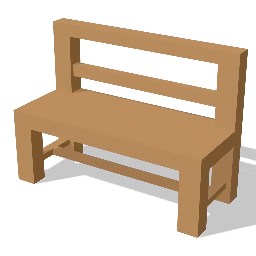
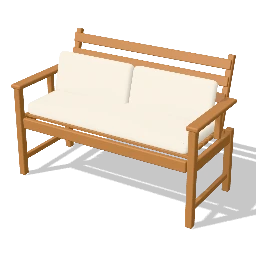
Convert the outdoor family to premium models: teak lounger and bench, slatted tables, planter, airer

diff --git a/packages/catalog/src/premium/outdoor.ts b/packages/catalog/src/premium/outdoor.ts
@@ -1,10 +1,355 @@
 /**
- * Premium generators: outdoor. Add one builder per kind of piece and list it in
- * `OUTDOOR_GENERATORS`; see `beds.ts` for the conventions.
+ * Premium generators: outdoor. Slatted teak lounge chair and garden bench with
+ * cushions, slatted round and square tables, a planter with foliage and a
+ * clothes airer. See `beds.ts` for the conventions; shared parts live in
+ * `seating.parts.ts`.
  */
-import type { CatalogEntry } from '@interio/core';
-import type * as THREE from 'three';
-import type { BuildContext } from './kit';
+import type { CatalogEntry, FinishSlot } from '@interio/core';
+import * as THREE from 'three';
+import { mergeVertices } from 'three/examples/jsm/utils/BufferGeometryUtils.js';
+import { Model, cyl, lathe, param, rbox, type BuildContext } from './kit';
+import { Parts, beam, clamp, placeBox, ring, rod, softBox, taperRod } from './seating.parts';
+
+/* -------------------------------------------------------------------- slots */
+
+export const LOUNGER_SLOTS: FinishSlot[] = [
+  { id: 'frame', label: 'Frame', kind: 'wood', default: 'wood.teak' },
+  { id: 'cushions', label: 'Cushions', kind: 'fabric', default: 'fabric.linen.ivory' },
+];
+export const SLAT_TABLE_SLOTS: FinishSlot[] = [
+  { id: 'top', label: 'Top', kind: 'wood', default: 'wood.teak' },
+  { id: 'base', label: 'Base', kind: 'metal', default: 'metal.black' },
+];
+export const SLAT_TABLE_WOOD_SLOTS: FinishSlot[] = [
+  { id: 'top', label: 'Top', kind: 'wood', default: 'wood.teak' },
+  { id: 'base', label: 'Legs', kind: 'wood', default: 'wood.teak' },
+];
+export const PLANTER_SLOTS: FinishSlot[] = [
+  { id: 'box', label: 'Planter', kind: 'wood', default: 'wood.teak' },
+  { id: 'frame', label: 'Frame', kind: 'metal', default: 'metal.black' },
+];
+export const AIRER_SLOTS: FinishSlot[] = [
+  { id: 'frame', label: 'Frame', kind: 'metal', default: 'metal.white' },
+  { id: 'rails', label: 'Rails', kind: 'metal', default: 'metal.steel' },
+];
+
+/** Deterministic pseudo-random numbers in [0, 1), so a model never changes between builds. */
+function rng(seed: number): () => number {
+  let s = seed >>> 0 || 1;
+  return () => {
+    s = (s * 1664525 + 1013904223) >>> 0;
+    return s / 4294967296;
+  };
+}
+
+/* ---------------------------------------------------------- lounge chair */
+
+/**
+ * A slatted lounge seat facing +Z: teak side frames with broad flat arms,
+ * a slatted seat and reclined slatted back, a seat cushion and a back cushion
+ * with piping. `arms: false` drops the arms; `seats` > 1 makes a garden bench
+ * (one long seat cushion, a back cushion per seat).
+ */
+export function buildLounger(entry: CatalogEntry, ctx?: BuildContext): THREE.Object3D {
+  const m = new Model(entry, ctx);
+  const { W, D, H } = m;
+  const p = new Parts(m);
+  const F = 'frame';
+  const seats = param<number>(entry, 'seats', 1);
+  const arms = param<boolean>(entry, 'arms', true);
+  const seatY = clamp(H * (seats > 1 ? 0.5 : 0.46), 0.34, 0.45); // top of the slats
+  const armY = seatY + 0.2;
+  const post = 0.045;
+  const armW = arms ? 0.075 : 0;
+  const fx = W / 2 - armW / 2; // centre line of the side frames
+  const front = D / 2 - post / 2 - 0.005;
+  const rear = -D / 2 + 0.11;
+  const lean = 0.28;
+
+  for (const s of [-1, 1]) {
+    const x = s * (arms ? fx : W / 2 - post / 2);
+    // Front leg rises to the arm, rear leg to the back rail.
+    p.part(F, rbox(post, (arms ? armY : seatY) - 0.02, post, 0.008, x, 0, front, 2));
+    p.part(F, beam([x, 0, rear], [x, seatY, rear + 0.01], post, post, 0.008, 2));
+    // Side rail under the seat and a low stretcher.
+    p.part(F, rbox(post * 0.7, 0.07, front - rear, 0.008, x, seatY - 0.09, (front + rear) / 2, 2));
+    p.part(F, rbox(post * 0.6, 0.035, front - rear, 0.006, x, 0.1, (front + rear) / 2, 1));
+    if (arms) {
+      // Broad flat arm, rounded at the front.
+      p.part(F, rbox(armW, 0.028, D - 0.12, 0.01, s * fx, armY - 0.028, D / 2 - (D - 0.12) / 2, 2));
+      p.part(F, rbox(post * 0.8, armY - seatY - 0.028, post * 0.8, 0.006, x, seatY, rear + 0.18, 1));
+    }
+  }
+  const inner = 2 * (arms ? fx - armW / 2 : W / 2 - post);
+  // Front and back rails.
+  p.part(F, rbox(inner + 0.01, 0.07, post * 0.7, 0.008, 0, seatY - 0.09, front, 2));
+  p.part(F, rbox(inner + 0.01, 0.07, post * 0.7, 0.008, 0, seatY - 0.09, rear, 2));
+  // Seat slats.
+  const sd = front - rear - post;
+  const n = Math.max(4, Math.round(sd / 0.065));
+  const gap = 0.012;
+  const sw = (sd - (n - 1) * gap) / n;
+  for (let i = 0; i < n; i++) p.part(F, rbox(inner, 0.02, sw, 0.005, 0, seatY - 0.02, rear + post / 2 + sw / 2 + i * (sw + gap), 1));
+  // Reclined back: two stiles carrying horizontal slats.
+  const backTop = H;
+  const backLen = (backTop - seatY + 0.02) / Math.cos(lean);
+  const stileX = inner / 2 - 0.02;
+  const back: THREE.BufferGeometry[] = [];
+  for (const s of [-1, 1]) back.push(rbox(0.04, backLen, 0.035, 0.008, s * stileX, 0, 0, 2));
+  const bn = Math.max(3, Math.round((backLen - 0.12) / 0.09));
+  for (let i = 0; i < bn; i++) back.push(rbox(inner - 0.01, 0.06, 0.018, 0.005, 0, 0.1 + i * ((backLen - 0.16) / (bn - 1)) - 0.03, 0.026, 1));
+  const bbox = new THREE.Box3();
+  for (const g of back) {
+    g.rotateX(-lean);
+    g.computeBoundingBox();
+    bbox.union(g.boundingBox!);
+  }
+  for (const g of back) p.part(F, g.translate(0, backTop - bbox.max.y, -D / 2 - bbox.min.z));
+  // Cushions.
+  const cushT = 0.08;
+  const seatCush = softBox(inner - 0.012, cushT, sd + 0.01, 0, seatY, (front + rear) / 2 + 0.01, 0.18, 0.03, 2);
+  p.part('cushions', seatCush);
+  const py = seatY + cushT - 0.01;
+  p.part('cushions', rod([-(inner / 2 - 0.03), py, (front + rear) / 2 + 0.01 + (sd + 0.01) / 2 - 0.012], [inner / 2 - 0.03, py, (front + rear) / 2 + 0.01 + (sd + 0.01) / 2 - 0.012], 0.005, 6));
+  const bw = (inner - 0.012) / seats;
+  const bh = (backTop - seatY - cushT) * 0.78;
+  for (let i = 0; i < seats; i++) {
+    const g = softBox(bw - (seats > 1 ? 0.012 : 0), 0.07, bh, 0, 0, 0, 0.3, 0.03, 2).rotateX(Math.PI / 2).rotateX(-lean);
+    // Rests on the seat cushion, against the slats.
+    const zAt = -D / 2 - bbox.min.z + 0.045;
+    placeBox(g, { cx: -inner / 2 + 0.006 + bw * (i + 0.5), minY: seatY + cushT - 0.02, minZ: zAt + Math.tan(lean) * 0.02 });
+    p.part('cushions', g);
+  }
+  return p.build();
+}
+
+/* ------------------------------------------------------------- slat table */
+
+/**
+ * A slatted teak table. `shape: 'round'`: a round slatted top on a black steel
+ * tripod with a ring (bistro table). `shape: 'square'`: a square slatted top
+ * with a slatted lower shelf on square teak legs (outdoor coffee table).
+ */
+export function buildSlatTable(entry: CatalogEntry, ctx?: BuildContext): THREE.Object3D {
+  const m = new Model(entry, ctx);
+  const { W, D, H } = m;
+  const p = new Parts(m);
+  const shape = param<'round' | 'square'>(entry, 'shape', 'round');
+  const topT = 0.024;
+  const gap = 0.008;
+  if (shape === 'round') {
+    const R = W / 2;
+    const sz = D / W;
+    // A solid rim round slats cut to the circle.
+    const band = 0.035;
+    p.part(
+      'top',
+      lathe(
+        [
+          [R - band, 0],
+          [R - 0.004, 0],
+          [R, 0.004],
+          [R, topT - 0.004],
+          [R - 0.004, topT],
+          [R - band, topT],
+          [R - band, 0],
+        ],
+        0,
+        H - topT,
+        0,
+        48,
+      ).scale(1, 1, sz),
+    );
+    const Ri = R - band + 0.004;
+    const n = Math.max(5, Math.round((2 * Ri) / 0.07)) | 1;
+    const sw = (2 * Ri - (n - 1) * gap) / n;
+    for (let i = 0; i < n; i++) {
+      const z = -Ri + sw / 2 + i * (sw + gap);
+      const zEdge = Math.min(Ri, Math.abs(z) + sw / 2);
+      const len = Math.max(0.04, 2 * Math.sqrt(Math.max(0, Ri * Ri - zEdge * zEdge)) + 0.01);
+      p.part('top', rbox(len, topT - 0.004, sw, 0.004, 0, H - topT, z * sz, 1));
+    }
+    p.part('top', ring(R - band - 0.02, 0.012, 0, H - topT - 0.012, 0, 40, sz));
+    // Tripod with a foot ring.
+    const top = R * 0.32;
+    const foot = R * 0.92;
+    for (let i = 0; i < 3; i++) {
+      const a = (i / 3) * Math.PI * 2 + Math.PI / 3;
+      p.part('base', taperRod([Math.sin(a) * foot, 0.006, Math.cos(a) * foot * sz], [Math.sin(a) * top, H - topT - 0.02, Math.cos(a) * top * sz], 0.012, 0.014, 12));
+      p.fixed('#1a1a1a', cyl(0.014, 0.014, 0.007, Math.sin(a) * foot, 0, Math.cos(a) * foot * sz, 'y', 10));
+    }
+    const ry = H * 0.3;
+    const rr = foot + (top - foot) * ((ry - 0.006) / (H - topT - 0.026));
+    p.part('base', ring(rr, 0.008, 0, ry, 0, 36, sz));
+    p.part('base', cyl(top + 0.03, top + 0.03, 0.012, 0, H - topT - 0.032, 0, 'y', 24).scale(1, 1, sz));
+    return p.build();
+  }
+  // Square: slatted top in a mitred frame, slatted shelf, square legs.
+  const leg = 0.05;
+  const rim = 0.05;
+  for (const s of [-1, 1]) {
+    p.part('top', rbox(W, topT, rim, 0.006, 0, H - topT, s * (D / 2 - rim / 2), 2));
+    p.part('top', rbox(rim, topT, D - 2 * rim, 0.006, s * (W / 2 - rim / 2), H - topT, 0, 2));
+  }
+  const n = Math.max(4, Math.round((D - 2 * rim) / 0.07));
+  const sw = (D - 2 * rim - (n + 1) * gap) / n;
+  for (let i = 0; i < n; i++) p.part('top', rbox(W - 2 * rim, topT - 0.004, sw, 0.004, 0, H - topT, -D / 2 + rim + gap + sw / 2 + i * (sw + gap), 1));
+  const lx = W / 2 - leg / 2 - 0.015;
+  const lz = D / 2 - leg / 2 - 0.015;
+  for (const sx of [-1, 1]) for (const sz of [-1, 1]) p.part('base', rbox(leg, H - topT, leg, 0.008, sx * lx, 0, sz * lz, 2));
+  for (const s of [-1, 1]) {
+    p.part('base', rbox(2 * lx, 0.06, 0.025, 0.006, 0, H - topT - 0.06, s * lz, 1));
+    p.part('base', rbox(0.025, 0.06, 2 * lz, 0.006, s * lx, H - topT - 0.06, 0, 1));
+  }
+  const shelfY = clamp(H * 0.2, 0.06, 0.12);
+  const sn = Math.max(3, Math.round((2 * lz - leg) / 0.08));
+  const ssw = (2 * lz - leg - (sn - 1) * gap * 1.5) / sn;
+  for (let i = 0; i < sn; i++) p.part('top', rbox(2 * lx + leg * 0.5, 0.018, ssw, 0.004, 0, shelfY, -lz + leg / 2 + ssw / 2 + i * (ssw + gap * 1.5), 1));
+  for (const s of [-1, 1]) p.part('base', rbox(0.025, 0.03, 2 * lz, 0.005, s * (lx - leg / 2 + 0.0125), shelfY - 0.03, 0, 1));
+  return p.build();
+}
+
+/* ------------------------------------------------------------------ planter */
+
+/**
+ * A long planter: a slatted teak box on a black steel frame, soil, and a row
+ * of shrubs of mixed heights and two greens, the tallest at the full height.
+ */
+export function buildPlanterBox(entry: CatalogEntry, ctx?: BuildContext): THREE.Object3D {
+  const m = new Model(entry, ctx);
+  const { W, D, H } = m;
+  const p = new Parts(m);
+  const legH = 0.06;
+  const boxH = clamp(H * 0.42, 0.2, 0.45);
+  const top = legH + boxH;
+  // Frame: corner posts and a base ring.
+  const post = 0.025;
+  for (const sx of [-1, 1]) for (const sz of [-1, 1]) p.part('frame', rbox(post, top, post, 0.003, sx * (W / 2 - post / 2), 0, sz * (D / 2 - post / 2), 1));
+  for (const s of [-1, 1]) {
+    p.part('frame', rbox(W - 2 * post, 0.02, 0.015, 0.003, 0, legH, s * (D / 2 - 0.0125), 1));
+    p.part('frame', rbox(0.015, 0.02, D - 2 * post, 0.003, s * (W / 2 - 0.0125), legH, 0, 1));
+  }
+  // Horizontal slats all round.
+  const n = Math.max(3, Math.round(boxH / 0.075));
+  const gap = 0.008;
+  const sh = (boxH - 0.02 - (n - 1) * gap) / n;
+  for (let i = 0; i < n; i++) {
+    const y = legH + 0.02 + i * (sh + gap);
+    for (const s of [-1, 1]) {
+      p.part('box', rbox(W - 2 * post, sh, 0.018, 0.004, 0, y, s * (D / 2 - post / 2), 1));
+      p.part('box', rbox(0.018, sh, D - 2 * post, 0.004, s * (W / 2 - post / 2), y, 0, 1));
+    }
+  }
+  // Cap rail.
+  for (const s of [-1, 1]) {
+    p.part('box', rbox(W, 0.02, 0.04, 0.005, 0, top - 0.02, s * (D / 2 - 0.02), 2));
+    p.part('box', rbox(0.04, 0.02, D - 0.08, 0.005, s * (W / 2 - 0.02), top - 0.02, 0, 2));
+  }
+  p.fixed('wood.wenge', rbox(W - 0.06, 0.02, D - 0.06, 0.005, 0, top - 0.05, 0, 1));
+
+  // Shrubs: clusters of lumpy leaf balls.
+  const rand = rng(Math.round(W * 1000) * 31 + Math.round(D * 1000));
+  const maxR = Math.min(D / 2 - 0.01, 0.2);
+  const count = Math.max(2, Math.round(W / (maxR * 1.6)));
+  const pitch = (W - 2 * maxR) / Math.max(1, count - 1);
+  const leafH = H - top + 0.03; // foliage height above the soil line
+  const lump = (r: number, x: number, y: number, z: number, sy: number, material: string) => {
+    // Welded first, so the jitter keeps the surface closed and the shading smooth.
+    const ico = new THREE.IcosahedronGeometry(1, 2);
+    ico.deleteAttribute('normal');
+    ico.deleteAttribute('uv');
+    const g = mergeVertices(ico, 1e-5);
+    const pos = g.getAttribute('position');
+    for (let i = 0; i < pos.count; i++) {
+      const k = 0.86 + 0.24 * rand();
+      pos.setXYZ(i, pos.getX(i) * k, pos.getY(i) * k, pos.getZ(i) * k);
+    }
+    g.computeVertexNormals();
+    g.scale(r, r * sy, r);
+    // Keep inside the footprint and under the full height.
+    g.computeBoundingBox();
+    const b = g.boundingBox!;
+    const cx = clamp(x, -W / 2 - b.min.x, W / 2 - b.max.x);
+    const cz = clamp(z, -D / 2 - b.min.z, D / 2 - b.max.z);
+    const cy = Math.min(y, H - b.max.y);
+    p.fixed(material, g.translate(cx, cy, cz));
+  };
+  for (let i = 0; i < count; i++) {
+    const x = -W / 2 + maxR + pitch * i;
+    const tall = i % 2 === 0;
+    const h = leafH * (tall ? 1 : 0.7);
+    const green = tall ? 'fabric.velvet.emerald' : 'fabric.cotton.sage';
+    // A spill of small lumps over the rim, a body of overlapping ones, then the crown.
+    lump(maxR * 0.7, x, top - 0.02 + maxR * 0.3, 0, 0.7, green);
+    for (let k = 0; k < 4; k++) {
+      const a = (k / 4) * Math.PI * 2 + rand();
+      lump(maxR * (0.48 + 0.1 * rand()), x + Math.cos(a) * maxR * 0.45, top + h * (0.3 + 0.25 * (k % 2)), Math.sin(a) * maxR * 0.3, 0.95, green);
+    }
+    const crown = maxR * 0.5;
+    lump(crown, x + (rand() - 0.5) * 0.04, top + h - crown * 0.95, 0, 1.1, green);
+  }
+  return p.build();
+}
+
+/* -------------------------------------------------------------------- airer */
+
+/**
+ * A clothes airer: a rail deck on crossed legs with two hinged side wings
+ * raised, a towel and a shirt hung over the rails.
+ */
+export function buildAirer(entry: CatalogEntry, ctx?: BuildContext): THREE.Object3D {
+  const m = new Model(entry, ctx);
+  const { W, D, H } = m;
+  const p = new Parts(m);
+  const tr = 0.009;
+  const wingLift = 0.38;
+  const deckW = W * 0.5;
+  const wingL = (W / 2 - tr - deckW / 2) / Math.cos(wingLift);
+  const deckY = H - tr - Math.sin(wingLift) * wingL;
+  const dz = D / 2 - tr - 0.12; // half-depth of the deck
+  // Deck frame and rails.
+  for (const s of [-1, 1]) p.part('frame', rod([-deckW / 2, deckY, s * dz], [deckW / 2, deckY, s * dz], tr, 10));
+  for (const s of [-1, 1]) p.part('frame', rod([s * deckW / 2, deckY, -dz], [s * deckW / 2, deckY, dz], tr, 10));
+  const rails = Math.max(5, Math.round((2 * dz) / 0.06));
+  const railZ = (i: number) => -dz + ((2 * dz) / (rails + 1)) * (i + 1);
+  for (let i = 0; i < rails; i++) p.part('rails', rod([-deckW / 2, deckY, railZ(i)], [deckW / 2, deckY, railZ(i)], 0.0035, 6));
+  // Wings, raised at an angle: rails run from the hinge outwards and up.
+  const wy = deckY + Math.sin(wingLift) * wingL;
+  const wx = deckW / 2 + Math.cos(wingLift) * wingL;
+  const wingTopY = Math.min(H - tr, wy);
+  for (const s of [-1, 1]) {
+    const hx = s * deckW / 2;
+    const ox = s * Math.min(W / 2 - tr, wx);
+    for (const z of [-dz, dz]) p.part('frame', rod([hx, deckY, z], [ox, wingTopY, z], tr * 0.85, 10));
+    p.part('frame', rod([ox, wingTopY, -dz], [ox, wingTopY, dz], tr * 0.85, 10));
+    for (let i = 0; i < rails; i += 2) p.part('rails', rod([hx, deckY, railZ(i)], [ox, wingTopY, railZ(i)], 0.0035, 6));
+  }
+  // Crossed legs at each end of the deck, out to the full depth.
+  for (const s of [-1, 1]) {
+    const x = s * (deckW / 2 - 0.03);
+    p.part('frame', rod([x, tr, -(D / 2 - tr)], [x, deckY, dz * 0.4], tr, 10));
+    p.part('frame', rod([x, tr, D / 2 - tr], [x, deckY, -dz * 0.4], tr, 10));
+    for (const z of [-(D / 2 - tr * 1.3), D / 2 - tr * 1.3]) p.fixed('#1a1a1a', new THREE.SphereGeometry(tr * 1.3, 8, 6).translate(x, tr * 1.3, z));
+  }
+  p.part('frame', rod([-(deckW / 2 - 0.03), deckY * 0.32, 0], [deckW / 2 - 0.03, deckY * 0.32, 0], tr * 0.7, 8));
+  // Laundry: a towel over a deck rail and a shirt over a wing.
+  const drape = (x: number, z: number, w: number, len: number, material: string) => {
+    for (const s of [-1, 1]) {
+      const g = rbox(w, len, 0.006, 0.003, 0, -len, 0, 1);
+      g.rotateX(s * 0.07).translate(x, deckY + 0.002, z + s * 0.009);
+      p.fixed(material, g);
+    }
+    p.fixed(material, cyl(0.011, 0.011, w, x, deckY + 0.002, z, 'x', 10));
+  };
+  drape(-deckW * 0.18, railZ(Math.floor(rails / 2) - 1), deckW * 0.42, Math.min(0.45, deckY * 0.5), 'fabric.cotton.white');
+  drape(deckW * 0.22, railZ(rails - 2), deckW * 0.36, Math.min(0.32, deckY * 0.38), 'fabric.cotton.sky');
+  return p.build();
+}
 
 /** Generators of this family, registered by `premium/index.ts`. */
-export const OUTDOOR_GENERATORS: Record<string, (entry: CatalogEntry, ctx?: BuildContext) => THREE.Object3D> = {};
+export const OUTDOOR_GENERATORS: Record<string, (entry: CatalogEntry, ctx?: BuildContext) => THREE.Object3D> = {
+  lounger: buildLounger,
+  slatTable: buildSlatTable,
+  planterBox: buildPlanterBox,
+  airer: buildAirer,
+};

diff --git a/packages/catalog/src/entries/outdoor.ts b/packages/catalog/src/entries/outdoor.ts
@@ -1,12 +1,22 @@
 /** Catalog entries: outdoor. Ids are stable: saved projects reference them. */
 import type { CatalogEntry } from '@interio/core';
-import { gen, glb } from './helpers';
+import { AIRER_SLOTS, LOUNGER_SLOTS, PLANTER_SLOTS, SLAT_TABLE_SLOTS, SLAT_TABLE_WOOD_SLOTS } from '../premium/outdoor';
+import { gen } from './helpers';
 
 export const OUTDOOR_ENTRIES: CatalogEntry[] = [
-  glb('outdoor.chair', 'Balcony chair', 'outdoor', ['balcony'], 'outdoor-chair', ['patio chair', 'garden chair', 'outdoor']),
-  glb('outdoor.table', 'Bistro table', 'outdoor', ['balcony'], 'outdoor-table', ['patio table', 'garden table', 'outdoor', 'tea table']),
-  glb('outdoor.table.coffee', 'Outdoor coffee table', 'outdoor', ['balcony'], 'outdoor-coffee-table', ['patio table', 'garden table', 'outdoor']),
-  glb('outdoor.bench', 'Garden bench', 'outdoor', ['balcony'], 'outdoor-bench', ['patio bench', 'outdoor', 'teak']),
-  gen('outdoor.planter', 'Planter box', 'outdoor', ['balcony', 'foyer'], 'planter', [800, 300, 700], ['plants', 'planter', 'greenery', 'hedge']),
-  gen('drying.rack', 'Clothes drying rack', 'outdoor', ['balcony', 'utility'], 'dryingRack', [1400, 560, 950], ['laundry', 'clothes stand', 'drying stand', 'airer']),
+  gen('outdoor.chair', 'Balcony lounge chair', 'outdoor', ['balcony'], 'lounger', [600, 680, 760], ['patio chair', 'garden chair', 'outdoor'], { slots: LOUNGER_SLOTS }),
+  gen('outdoor.table', 'Bistro table', 'outdoor', ['balcony'], 'slatTable', [600, 600, 720], ['patio table', 'garden table', 'outdoor', 'tea table'], {
+    slots: SLAT_TABLE_SLOTS,
+    params: { shape: 'round' },
+  }),
+  gen('outdoor.table.coffee', 'Outdoor coffee table', 'outdoor', ['balcony'], 'slatTable', [600, 600, 380], ['patio table', 'garden table', 'outdoor'], {
+    slots: SLAT_TABLE_WOOD_SLOTS,
+    params: { shape: 'square' },
+  }),
+  gen('outdoor.bench', 'Garden bench', 'outdoor', ['balcony'], 'lounger', [1300, 640, 860], ['patio bench', 'outdoor', 'teak'], {
+    slots: LOUNGER_SLOTS,
+    params: { seats: 2 },
+  }),
+  gen('outdoor.planter', 'Planter box', 'outdoor', ['balcony', 'foyer'], 'planterBox', [800, 300, 700], ['plants', 'planter', 'greenery', 'hedge'], { slots: PLANTER_SLOTS }),
+  gen('drying.rack', 'Clothes drying rack', 'outdoor', ['balcony', 'utility'], 'airer', [1400, 560, 950], ['laundry', 'clothes stand', 'drying stand', 'airer'], { slots: AIRER_SLOTS }),
 ];
